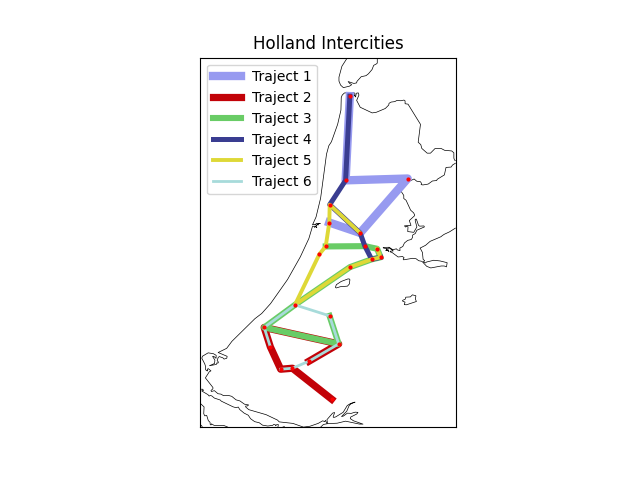
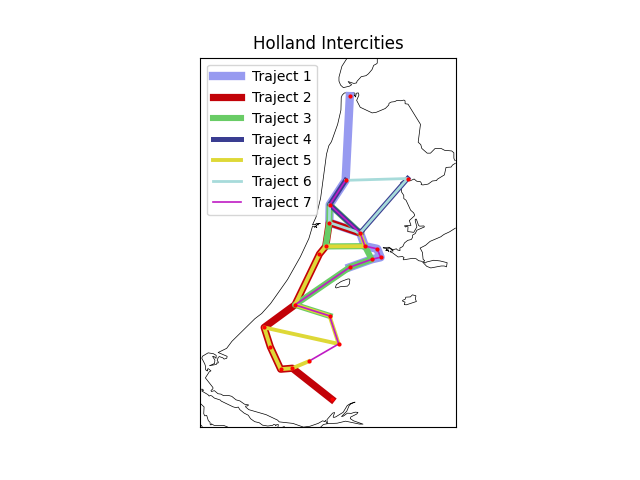
algorithm 1 improved

Changed region(s): [[0.3125, 0.1875, 0.6562, 0.7812]]

diff --git a/code/algorithms/greedy.py b/code/algorithms/greedy.py
@@ -11,6 +11,7 @@ class Greedy:
     def run(self):
         unavailable_options = set()
         stations_passed_list = []
+        starting_stations_passed_list = []
         # Keep adding routes until max amount is reached or all stations are connected
         while not len(self.graph.routes) >= self.MAX_LENGTH and len(self.graph.get_visited_connections()) < len(self.graph.connections):
 
@@ -25,6 +26,11 @@ class Greedy:
                 # Unavailable_options prevents that a station is visited multiple times in one route
                 for station in route.stations:
                     unavailable_options.add(station._name)
+                
+                # Stations with one possible direction can only be at the beginning of the traject
+                for station in self.graph.stations:
+                    if len(self.graph.stations[station]._connections) == 1:
+                        unavailable_options.add(self.graph.stations[station]._name)
 
                 possibilities = route.get_possibilities(unavailable_options)
                 
@@ -37,7 +43,7 @@ class Greedy:
                 for poss in possibilities:
                     possibilities1.append(self.graph.stations[poss])
 
-                choice = self.get_best_station(possibilities1)
+                choice = self.get_best_station(possibilities1)  
 
                 route.add_station(self.graph.stations[choice._name], route.stations[-1]._connections[choice._name])
 
@@ -55,7 +61,14 @@ class Greedy:
                 self.graph.routes.popitem()
             elif route.is_valid(self.map):
                 self.graph.count_visited_connections(route.connections)
-                stations_passed_list.append(starting_station)
+                stations_passed_list = self.add_stations(stations_passed_list)
+                starting_stations_passed_list.append(starting_station)
+
+    def add_stations(self, stations_passed_list):
+        for station in self.graph.routes[list(self.graph.routes.keys())[-1]].stations:
+            if station not in stations_passed_list:
+                stations_passed_list.append(station)
+        return stations_passed_list
 
     # Get station with the least amount of possible connections
     def get_best_station(self, possibilities):
@@ -65,13 +78,21 @@ class Greedy:
 
     # Get starting station with the least amount of possible connections
     def get_best_starting_station(self, stations_list):
+
         stations = list(self.graph.stations.values())
         
         if len(stations_list) > 0:
-            for st in stations_list:
-                stations.remove(st)
+            for station in stations_list:
+                stations.remove(station)
 
-        stations.sort(key=lambda station: len(station._connections))
+        if len(stations) > 0:
+            stations.sort(key=lambda station: len(station._connections))
+        else:
+            new_dict = {}
+            for connection in self.graph.connections:
+                new_dict[connection] = self.graph.connections[connection] + self.graph.connections[(connection[1], connection[0])]
+    
+            return self.graph.stations[(min(new_dict.items(), key=lambda x: x[1])[0])[0]]
 
         return stations.pop(0)
 
@@ -106,9 +127,3 @@ class NewGreedy(Greedy):
         
         # Return station with the least amount of connections
         return self.graph.stations[(min(new_dict.items(), key=lambda x: x[1])[0])]
-
-
-# NOTE: reverseNewGreedy met connecties volgen en in reverse order
-# NOTE: start station kiezen op basis van minste opties, als een station al bezocht is, deze uit deze lijst halen. Mocht deze lijst leeg zijn,
-# dan random een station kiezen.
-# NOTE: alle stations die maar een kant op kunnen altijd weghalen als gepasseerd worden

diff --git a/main.py b/main.py
@@ -42,12 +42,27 @@ def main(the_map, output_file, RUNS, vis):
     print()
 
     # ---------------------------------------------------- NewGreedy ---------------------------------------------------------
-    newGreedy_graph = gr.NewGreedy(stations_graph, the_map)
-    print("newGreedy algorithm is running...")
-    newGreedy_graph.run()
+    # newGreedy_graph = gr.NewGreedy(stations_graph, the_map)
+    # print("newGreedy algorithm is running...")
+    # newGreedy_graph.run()
+    # print(f"newGreedy algorithm completed successfully with a score of {newGreedy_graph.graph.calculate_score()}.")
+    # print()
 
-    print(f"newGreedy algorithm completed successfully with a score of {newGreedy_graph.graph.calculate_score()}.")
-    print()    
+    print("newGreedy algorithm is running ...")
+    best_graph = None
+    best_score = 0
+    # total_score = 0
+    for _ in range(RUNS):
+        newGreedy_graph = gr.NewGreedy(stations_graph, the_map)
+        newGreedy_graph.run()
+        if newGreedy_graph.graph.calculate_score() > best_score:
+            best_graph = newGreedy_graph
+            best_score = newGreedy_graph.graph.calculate_score()
+    #     total_score += newGreedy_graph.graph.calculate_score()
+    # average_score = total_score / RUNS
+
+    print(f"newGreedy algorithm completed successfully with a score of {best_graph.graph.calculate_score()}.")
+    print()
 
     # -------------------------------------------------------- random --------------------------------------------------------
     # best_graph = None
@@ -66,9 +81,10 @@ def main(the_map, output_file, RUNS, vis):
     print(f"Random algorithm completed successfully with a score of {random_graph.calculate_score()}.")
 
     print()
+
     # -------------------------------------------------------- output --------------------------------------------------------
     # Save graph to .csv file
-    generate_output(reverseGreedy_graph.graph, output_file)
+    generate_output(best_graph.graph, output_file)
     print(f"See '{output_file}' for generated routes.")
 
     # Output info to file for personal use
@@ -77,9 +93,9 @@ def main(the_map, output_file, RUNS, vis):
     # Visualize results on map
     if vis:
         from visualization import visualization
-        
+
         print("Loading visualization...")
-        visualization(the_map, reverseGreedy_graph.graph)
+        visualization(the_map, best_graph.graph)
         print(f"Done! See 'test_{the_map}.png' for visualization.")
 
 
